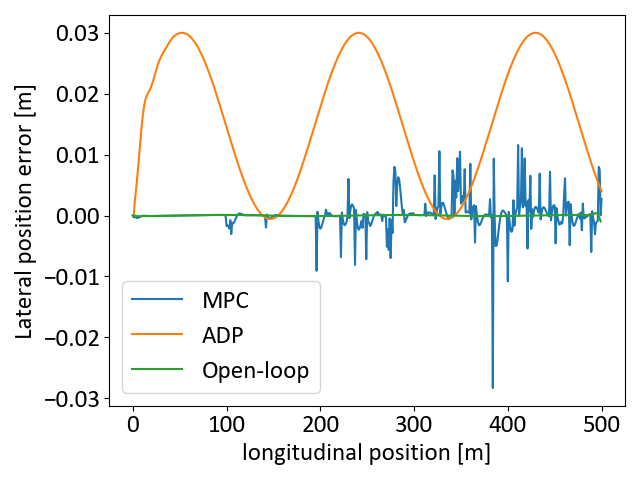
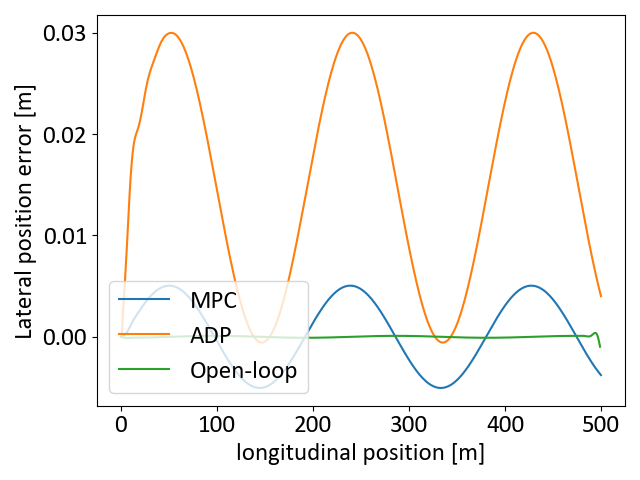
bug fix in MPC

diff --git a/Simulation.py b/Simulation.py
@@ -1,0 +1,67 @@
+import Dynamics
+import numpy as np
+import torch
+import time
+import os
+from Network import Actor, Critic
+from Config import DynamicsConfig
+S_DIM = 4
+A_DIM = 1
+from Solver import Solver
+
+
+log_dir = "./Results_dir/2020-05-17-20-57-final"
+comparison_dir = "./Results_dir/Comparison_Data"
+policy = Actor(S_DIM, A_DIM)
+value = Critic(S_DIM, A_DIM)
+config = DynamicsConfig()
+solver=Solver()
+load_dir = log_dir
+policy.load_parameters(load_dir)
+value.load_parameters(load_dir)
+statemodel_plt = Dynamics.VehicleDynamics()
+plot_length = config.NP_TOTAL
+methods = ['ADP','MPC']
+for method in methods:
+    cal_time = 0
+    state = torch.tensor([[0.0, 0.0, config.psi_init, 0.0, 0.0]])
+    state.requires_grad_(False)
+    x_ref = statemodel_plt.reference_trajectory(state[:, -1])
+    state_r = state.detach().clone()
+    state_r[:, 0:4] = state_r[:, 0:4] - x_ref
+
+    state_history = state.detach().numpy()
+    control_history = []
+    # x = np.array([0.])
+    for i in range(plot_length):
+        if method == 'ADP':
+            time_start = time.time()
+            u = policy.forward(state_r[:, 0:4])
+            cal_time += time.time() - time_start
+        elif method == 'MPC':
+            x = state_r.tolist()[0]
+            time_start = time.time()
+            _, control = solver.mpc_solver_zero(x, config.NP)
+            cal_time += time.time() - time_start
+            u = np.array(control[0], dtype='float32').reshape(-1, config.ACTION_DIM)
+            u = torch.from_numpy(u)
+        state_next, deri_state, utility, F_y1, F_y2, alpha_1, alpha_2 = statemodel_plt.step(state, u)
+        state_r_old, _, _, _, _, _, _ = statemodel_plt.step(state_r, u)
+        state_r = state_r_old.detach().clone()
+        state_r[:, [0, 2]] = state_next[:, [0, 2]]
+        x_ref = statemodel_plt.reference_trajectory(state_next[:, -1])
+        state_r[:, 0:4] = state_r[:, 0:4] - x_ref
+        state = state_next.clone().detach()
+        s = state_next.detach().numpy()
+        state_history = np.append(state_history, s, axis=0)
+        control_history = np.append(control_history, u.detach().numpy())
+    if method == 'ADP':
+        print("ADP calculating time: {:.3f}".format(cal_time) + "s")
+        np.savetxt(os.path.join(comparison_dir, 'ADP_state.txt'), state_history)
+        np.savetxt(os.path.join(comparison_dir, 'ADP_control.txt'), control_history)
+        np.savetxt(os.path.join(log_dir, 'ADP_state.txt'), state_history)
+        np.savetxt(os.path.join(log_dir, 'ADP_control.txt'), control_history)
+    if method == 'MPC':
+        print("MPC calculating time: {:.3f}".format(cal_time) + "s")
+        np.savetxt(os.path.join(comparison_dir, 'structured_MPC_state.txt'), state_history)
+        np.savetxt(os.path.join(comparison_dir, 'structured_MPC_control.txt'), control_history)

diff --git a/plot_figure.py b/plot_figure.py
@@ -1,9 +1,5 @@
-import Dynamics
 import numpy as np
-import torch
-import time
 import os
-from Network import Actor, Critic
 from Config import DynamicsConfig
 from utils import myplot
 S_DIM = 4
@@ -154,36 +150,8 @@ def adp_simulation_plot(log_dir):
         location of data and figures saved.
 
     '''
-    policy = Actor(S_DIM, A_DIM)
-    value = Critic(S_DIM, A_DIM)
-    config = DynamicsConfig()
-    load_dir = log_dir
-    policy.load_parameters(load_dir)
-    value.load_parameters(load_dir)
-    statemodel_plt = Dynamics.VehicleDynamics()
-    state = torch.tensor([[1.0, 0.0, config.psi_init, 0.0, 0.0]])
-    state.requires_grad_(False)
-    x_ref = statemodel_plt.reference_trajectory(state[:, -1])
-    state_r = state.detach().clone()
-    state_r[:, 0:4] = state_r[:, 0:4] - x_ref
-    state_history = state.detach().numpy()
-    x = np.array([0.])
-    plot_length = 500
-    control_history = []
-    time_init = time.time()
-    for i in range(plot_length):
-        u = policy.forward(state_r[:, 0:4])
-        state_next, deri_state, utility, F_y1, F_y2, alpha_1, alpha_2 = statemodel_plt.step(state, u)
-        state_r_old, _, _, _, _, _, _ = statemodel_plt.step(state_r, u)
-        state_r = state_r_old.detach().clone()
-        state_r[:, [0, 2]] = state_next[:, [0, 2]]
-        x_ref = statemodel_plt.reference_trajectory(state_next[:, -1])
-        state_r[:, 0:4] = state_r[:, 0:4] - x_ref
-        state = state_next.clone().detach()
-        s = state_next.detach().numpy()
-        state_history = np.append(state_history, s, axis=0)
-        control_history = np.append(control_history, u.detach().numpy())
-    print("ADP calculating time: {:.3f}".format(time.time() - time_init) + "s")
+    state_history = np.loadtxt(os.path.join(log_dir, 'ADP_state.txt'))
+    control_history = np.loadtxt(os.path.join(log_dir, 'ADP_control.txt'))
     trajectory = (state_history[:, -1], state_history[:, 0])
     myplot(trajectory, 1, "xy",
            fname=os.path.join(log_dir, 'trajectory.png'),
@@ -208,15 +176,10 @@ def adp_simulation_plot(log_dir):
            xlabel="longitudinal position [m]",
            ylabel="steering angle [degree]"
            )
-    comparison_dir = "Results_dir/Comparison_Data"
-    np.savetxt(os.path.join(comparison_dir, 'ADP_state.txt'), state_history)
-    np.savetxt(os.path.join(comparison_dir, 'ADP_control.txt'), control_history)
-    np.savetxt(os.path.join(log_dir, 'ADP_state.txt'), state_history)
-    np.savetxt(os.path.join(log_dir, 'ADP_control.txt'), control_history)
 
 
 if __name__ == '__main__':
     Figures_dir = './Figures/'
-    adp_simulation_plot("./Results_dir/2020-05-17-20-57-final")
+    # adp_simulation_plot("./Results_dir/2020-05-17-20-57-final")
     plot_comparison(Figures_dir)
     # plot_loss_decent("./Results_dir/2020-05-18-02-21-10000")

diff --git a/Solver.py b/Solver.py
@@ -168,17 +168,30 @@ class Solver(DynamicsConfig):
         # discrete dynamic model
         self.f = vertcat(
             x[0] + self.Ts * (self.u * sin(x[2]) + x[1] * cos(x[2])),
-            x[1] + self.Ts * (-self.D * self.F_z1 * sin(
+            x[1] + self.Ts * ((-self.D * self.F_z1 * sin(
                 self.C * arctan(self.B * (-u[0] + (x[1] + self.a * x[3]) / self.u))) * cos(u[0])
                               - self.D * self.F_z2 * sin(
-                        self.C * arctan(self.B * ((x[1] - self.b * x[3]) / self.u))) / self.m - self.u * x[3]),
+                        self.C * arctan(self.B * ((x[1] - self.b * x[3]) / self.u)))) / self.m - self.u * x[3]),
             x[2] + self.Ts * (x[3]),
-            x[3] + self.Ts * (self.a * (-self.D * self.F_z1 * sin(
+            x[3] + self.Ts * ((self.a * (-self.D * self.F_z1 * sin(
                 self.C * arctan(self.B * (-u[0] + (x[1] + self.a * x[3]) / self.u)))) * cos(u[0])
                               - self.b * (-self.D * self.F_z2 * sin(
-                        self.C * arctan(self.B * ((x[1] - self.b * x[3]) / self.u)))) / self.I_zz),
+                        self.C * arctan(self.B * ((x[1] - self.b * x[3]) / self.u))))) / self.I_zz),
             x[4] + self.Ts * (self.u * cos(x[2]) - x[1] * sin(x[2]))
         )
+        # F_y1 = self.k1*(-u[0] + (x[1] + self.a * x[3]) / self.u)
+        # F_y2 = self.k2*((x[1] - self.b * x[3]) / self.u)
+        # self.f = vertcat(
+        #     x[0] + self.Ts * (self.u * sin(x[2]) + x[1] * cos(x[2])),
+        #     x[1] + self.Ts * ((self.k1*(-u[0] + (x[1] + self.a * x[3]) / self.u) * cos(u[0]) +
+        #                       self.k2*((x[1] - self.b * x[3]) / self.u)) / self.m - self.u * x[3]),
+        #     x[2] + self.Ts * (x[3]),
+        #     x[3] + self.Ts * (self.a * (-self.D * self.F_z1 * sin(
+        #         self.C * arctan(self.B * (-u[0] + (x[1] + self.a * x[3]) / self.u)))) * cos(u[0])
+        #                       - self.b * (-self.D * self.F_z2 * sin(
+        #                 self.C * arctan(self.B * ((x[1] - self.b * x[3]) / self.u)))) / self.I_zz),
+        #     x[4] + self.Ts * (self.u * cos(x[2]) - x[1] * sin(x[2]))
+        # )
 
         # Create solver instance
         self.F = Function("F", [x, u], [self.f])
@@ -222,9 +235,9 @@ class Solver(DynamicsConfig):
 
 
             # Cost function
-            F_cost = Function('F_cost', [x, u], [100 * (x[0]) ** 2
+            F_cost = Function('F_cost', [x, u], [1 * (x[0]) ** 2
                                                  + 1 * (x[2]) ** 2
-                                                 + 10 * u[0] ** 2])
+                                                 + 0 * u[0] ** 2])
             J += F_cost(w[k * 2], w[k * 2 - 1])
 
         # Create NLP solver

diff --git a/main-MPC.py b/main-MPC.py
@@ -47,14 +47,16 @@ state_r = state.detach().clone()
 state_r[:, 0:4] = state_r[:, 0:4] - x_ref
 state_history = state.detach().numpy()
 x = np.array([0.])
-plot_length = 500
+plot_length = 100
 control_history = []
 state_r_history = state_r
 cal_time = 0
+plt.figure()
 for i in range(plot_length):
     x = state_r.tolist()[0]
     time_start = time.time()
-    _, control = solver.mpc_solver_zero(x, config.NP)
+    temp, control = solver.mpc_solver_zero(x, config.NP)
+    plt.plot(temp[:,-1],temp[:,0])
     cal_time += time.time() - time_start
     u = np.array(control[0], dtype='float32').reshape(-1, config.ACTION_DIM)
     u = torch.from_numpy(u)
@@ -70,8 +72,9 @@ for i in range(plot_length):
     control_history = np.append(control_history, u.detach().numpy())
     state_r_history = np.append(state_history, state_r.detach().numpy())
 print("MPC calculating time: {:.3f}".format(cal_time) + "s")
-np.savetxt(os.path.join(log_dir, 'structured_MPC_state.txt'), state_history)
-np.savetxt(os.path.join(log_dir, 'structured_MPC_control.txt'), control_history)
+plt.show()
+# np.savetxt(os.path.join(log_dir, 'structured_MPC_state.txt'), state_history)
+# np.savetxt(os.path.join(log_dir, 'structured_MPC_control.txt'), control_history)
 state_r_history = state_r_history.reshape([-1,5])
 plt.figure(1)
 plt.plot(state_history[:,-1],state_history[:,0], label="trajectory")

diff --git a/Config.py b/Config.py
@@ -10,7 +10,7 @@ class GeneralConfig(object):
     FORWARD_STEP = 20
     GAMMA_D = 1
 
-    NP = 20
+    NP = 10
     NP_TOTAL = 500
 
 
@@ -37,8 +37,8 @@ class DynamicsConfig(GeneralConfig):
     F_z1 = m * g * b / L    # Vertical force on front axle
     F_z2 = m * g * a / L    # Vertical force on rear axle
 
-    k_curve = 0          # curve shape of a * sin(kx)
-    a_curve = 0           # curve shape of a * sin(kx)
+    k_curve = 1/30          # curve shape of a * sin(kx)
+    a_curve = 1           # curve shape of a * sin(kx)
     psi_init = a_curve * k_curve # initial position of psi
 
     # ADP reset state range

diff --git a/main-open-loop.py b/main-open-loop.py
@@ -23,3 +23,4 @@ solver=Solver()
 state, control = solver.mpc_solver(x_init, config.NP_TOTAL)
 np.savetxt(os.path.join(log_dir, 'Open_loop_state.txt'), state)
 np.savetxt(os.path.join(log_dir, 'Open_loop_control.txt'), control)
+plt.figure()
